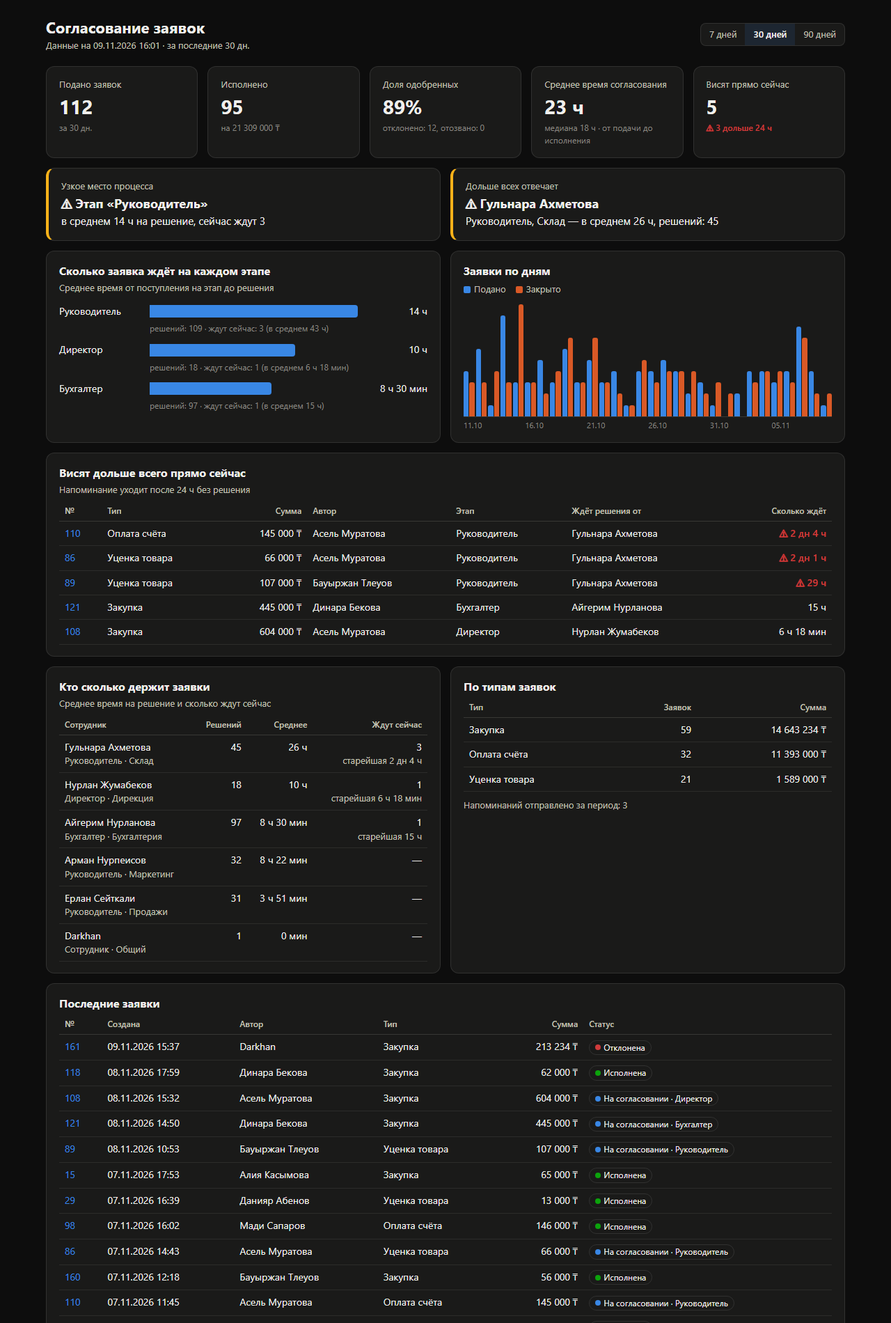
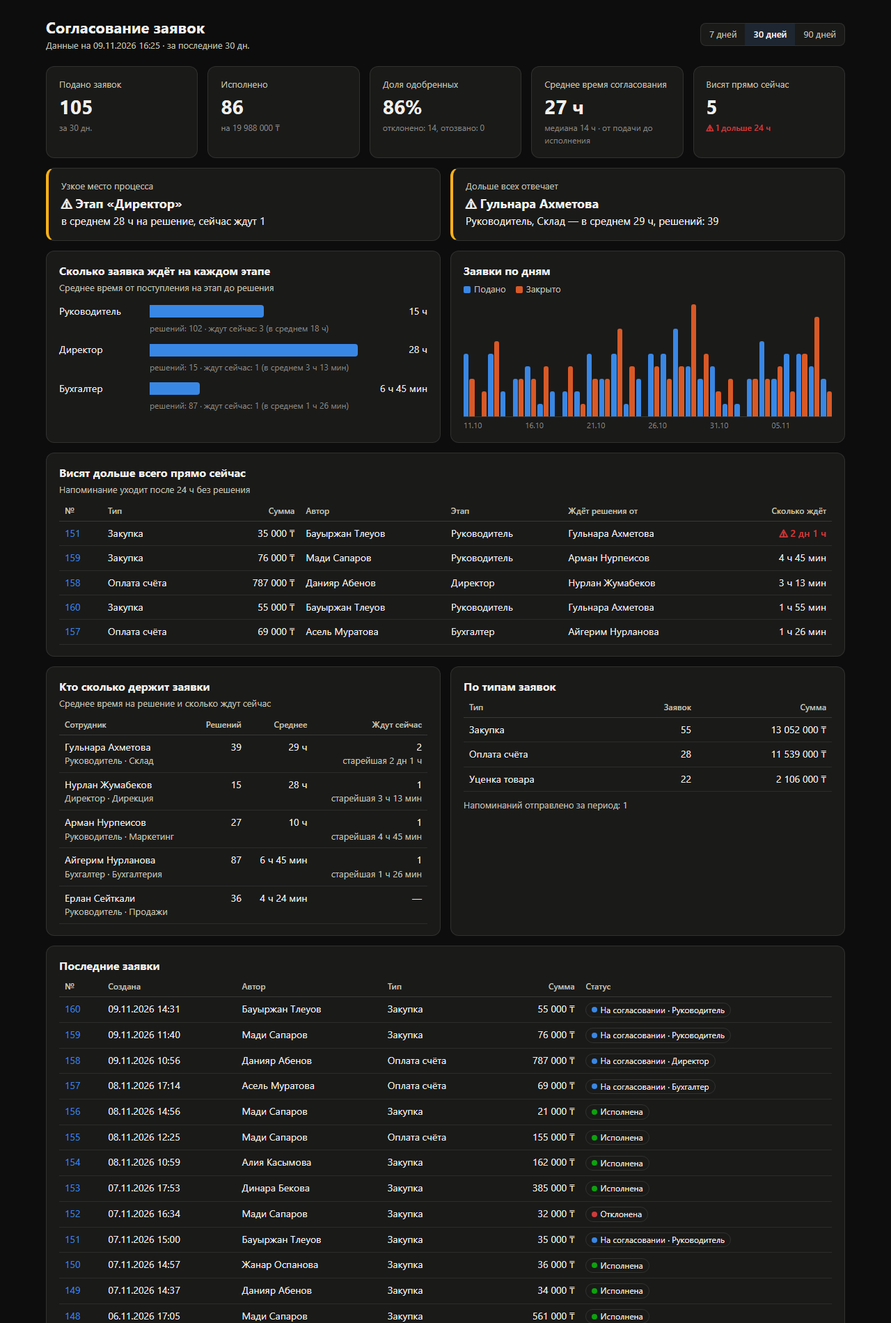
Add files via upload

diff --git a/app/services/approval.py b/app/services/approval.py
@@ -14,6 +14,9 @@
     любая заявка ──► АННУЛИРОВАНА (ушла из статистики, но осталась в истории)
     любая заявка ──► ВОЗВРАЩЕНА на выбранный этап (например, если одобрили по ошибке)
 Заявки не удаляются: история согласования — это аудит.
+
+Отказ по умолчанию: этап пропускается ТОЛЬКО по порогу суммы. Если ответственного нет
+(уволился, неактивен), заявка ждёт на этапе, а решение поручается администраторам.
 """
 from dataclasses import dataclass, field
 from datetime import datetime, timedelta
@@ -28,6 +31,7 @@ from app.workflow_config import APPROVE, Stage, WorkflowConfig
 MAX_AMOUNT = Decimal("10000000000")  # 10 млрд — защита от опечаток
 CURRENCY_MARKS = ("тенге", "тг", "₸", "руб.", "руб", "р.", "₽")
 MIN_REASON_LEN = 3
+UNASSIGNED_NOTE = "⚠ Не назначен ответственный — заявка передана администраторам"
 
 
 class WorkflowError(Exception):
@@ -225,11 +229,15 @@ class ApprovalService:
         return self.is_admin(user) or (self.open_access and req.author_id == user.id)
 
     def returnable_stages(self, req: Request) -> list[Stage]:
-        """Этапы, на которые можно вернуть заявку: нужные по сумме и не тот, на котором она сейчас."""
+        """Этапы, на которые можно вернуть заявку: нужные по сумме и не тот, на котором она сейчас.
+
+        Исключение — этап без ответственного: после того как ответственного назначили,
+        заявку «возвращают» на тот же этап, и она уходит уже ему.
+        """
         return [
             stage for i, stage in enumerate(self.wf.stages)
             if (stage.min_amount is None or req.amount >= stage.min_amount)
-            and not (req.is_open and req.stage_index == i)
+            and not (req.is_open and req.stage_index == i and not req.unassigned)
         ]
 
     async def _get_for_admin(self, session: AsyncSession, request_id: int, actor: User) -> Request:
@@ -338,20 +346,22 @@ class ApprovalService:
             users = await self._resolve(session, stage.assignee, req)
             if not users and stage.fallback:
                 users = await self._resolve(session, stage.fallback, req)
+            note = None
             if not users:
-                self._log(req, Action.SKIPPED, actor=None, now=now, stage_index=index,
-                          comment="Не найден ответственный")
-                continue
+                # Отказ по умолчанию: без ответственного этап НЕ пропускается.
+                # Заявка ждёт на этапе, а решать её временно поручается администраторам.
+                users = await self._admins(session, exclude=req.author)
+                note = UNASSIGNED_NOTE
 
             req.stage_index = index
             req.stage_code = stage.code
             req.stage_entered_at = now
             req.last_reminded_at = None
-            already = {a.user.id for a in req.assignments if a.stage_index == index}  # при возврате на этап
-            for user in users:
-                if user.id not in already:
-                    req.assignments.append(Assignment(stage_index=index, user=user))
-            self._log(req, Action.ENTERED, actor=None, now=now, stage_index=index)
+            # При повторном входе на этап (возврат) прежний состав ответственных заменяется новым
+            req.assignments = [a for a in req.assignments if a.stage_index != index]
+            for user in {u.id: u for u in users}.values():
+                req.assignments.append(Assignment(stage_index=index, user=user))
+            self._log(req, Action.ENTERED, actor=None, now=now, stage_index=index, comment=note)
             return users
 
         # Все этапы пройдены
@@ -378,6 +388,21 @@ class ApprovalService:
         else:
             return []
         result = await session.execute(query.order_by(User.id))
+        return list(result.scalars())
+
+    async def _admins(self, session: AsyncSession, exclude: User) -> list[User]:
+        """Активные администраторы (по роли или из настроек), кроме указанного человека."""
+        conditions = [User.role == Role.ADMIN]
+        ids = [int(a) for a in self.admins if a.isdigit()]
+        names = [a for a in self.admins if not a.isdigit()]
+        if ids:
+            conditions.append(User.tg_id.in_(ids))
+        if names:
+            conditions.append(User.username.in_(names))
+        result = await session.execute(
+            select(User).where(User.is_active.is_(True), User.id != exclude.id, or_(*conditions))
+            .order_by(User.id)
+        )
         return list(result.scalars())
 
     def _log(

diff --git a/tests/test_unassigned.py b/tests/test_unassigned.py
@@ -1,0 +1,74 @@
+"""Отказ по умолчанию: этап без ответственного не пропускается."""
+from decimal import Decimal
+
+from app.models import Action, Status
+from app.services.approval import UNASSIGNED_NOTE
+
+
+async def create(service, session, author, amount):
+    out = await service.create(session, author, "payment", Decimal(amount), "Оплата поставщику")
+    return out
+
+
+async def test_no_accountant_request_does_not_become_done(service, session, staff):
+    """Бухгалтер уволился: после одобрения руководителя заявка НЕ становится «Исполнена»."""
+    staff["accountant"].is_active = False
+    await session.flush()
+    req = (await create(service, session, staff["employee"], "15000")).request
+
+    out = await service.approve(session, req.id, req.stage_index, staff["manager"])
+    assert req.status == Status.IN_PROGRESS
+    assert req.stage_code == "accountant"
+    assert req.unassigned
+    assert [u.username for u in out.new_assignees] == ["adm"]  # решение временно у администратора
+    assert any(e.action == Action.ENTERED and e.comment == UNASSIGNED_NOTE for e in req.events)
+    assert not any(e.action == Action.SKIPPED and e.stage_code == "accountant" for e in req.events)
+
+
+async def test_no_manager_and_no_director_large_amount_waits(service, session, staff):
+    """Нет руководителя отдела, директор неактивен: 900 000 ₸ НЕ уходит сразу бухгалтеру."""
+    staff["manager"].is_active = False
+    staff["director"].is_active = False
+    await session.flush()
+    out = await create(service, session, staff["employee"], "900000")
+    req = out.request
+    assert req.status == Status.IN_PROGRESS
+    assert req.stage_code == "manager"
+    assert req.unassigned
+    assert [u.username for u in out.new_assignees] == ["adm"]
+    assert all(a.user.username != "acc" for a in req.assignments)
+
+
+async def test_stays_on_stage_even_without_admins(service, session, staff):
+    """Даже если и администраторов нет — заявка ждёт, а не проходит дальше."""
+    staff["accountant"].is_active = False
+    staff["admin"].is_active = False
+    await session.flush()
+    req = (await create(service, session, staff["employee"], "15000")).request
+    out = await service.approve(session, req.id, req.stage_index, staff["manager"])
+    assert req.status == Status.IN_PROGRESS and req.stage_code == "accountant"
+    assert out.new_assignees == [] and req.current_assignees() == []
+
+
+async def test_threshold_skip_still_works(service, session, staff):
+    """Пропуск по порогу суммы — единственный законный пропуск этапа."""
+    req = (await create(service, session, staff["employee"], "15000")).request
+    await service.approve(session, req.id, req.stage_index, staff["manager"])
+    assert req.stage_code == "accountant" and not req.unassigned
+    assert any(e.action == Action.SKIPPED and e.stage_code == "director" for e in req.events)
+
+
+async def test_admin_reassigns_after_hiring(service, session, staff):
+    """Наняли бухгалтера → администратор «возвращает» заявку на тот же этап, и она уходит бухгалтеру."""
+    staff["accountant"].is_active = False
+    await session.flush()
+    req = (await create(service, session, staff["employee"], "15000")).request
+    await service.approve(session, req.id, req.stage_index, staff["manager"])
+    assert "accountant" in [s.code for s in service.returnable_stages(req)]
+
+    staff["accountant"].is_active = True
+    await session.flush()
+    out = await service.return_to_stage(session, req.id, "accountant", staff["admin"], "Бухгалтер назначен")
+    assert [u.username for u in out.new_assignees] == ["acc"]
+    assert [u.username for u in req.current_assignees()] == ["acc"]  # администратор больше не в списке
+    assert not req.unassigned

diff --git a/app/bot/notifier.py b/app/bot/notifier.py
@@ -16,6 +16,12 @@ from app.workflow_config import WorkflowConfig
 
 log = logging.getLogger(__name__)
 
+CAPTION_LIMIT = 1024  # предел подписи к фото/файлу в Telegram
+
+
+def short(text: str, limit: int) -> str:
+    return text if len(text) <= limit else text[: limit - 1] + "…"
+
 
 class Notifier:
     def __init__(self, bot: Bot, wf: WorkflowConfig, tz: ZoneInfo, sync: SheetSync | None, open_access: bool):
@@ -55,11 +61,19 @@ class Notifier:
 
         # Следующим ответственным — карточку с кнопками
         header = ""
-        if outcome.action == Action.RETURNED:
-            reason = escape(last_comment(req, Action.RETURNED))
+        if req.unassigned:
+            stage = escape(self.wf.stage_title(req.stage_code))
+            header = (f"⚠ <b>Не назначен ответственный за этап «{stage}»</b>\n"
+                      "Заявка передана вам как администратору. Назначьте ответственного в списке сотрудников "
+                      "и верните заявку на этот этап (/r " + str(req.id) + ") — или примите решение сами.\n\n")
+        elif outcome.action == Action.RETURNED:
+            reason = escape(short(last_comment(req, Action.RETURNED), 200))
             header = f"↩ <b>Заявка возвращена вам на повторное решение</b>\nПричина: <i>{reason}</i>\n\n"
         for user in outcome.new_assignees:
             await self.send_card(user, req, header=header)
+        if req.unassigned and not outcome.new_assignees:
+            log.warning("Заявка №%s ждёт на этапе «%s»: нет ни ответственного, ни администраторов",
+                        req.id, req.stage_code)
 
     async def send_card(self, user: User, req: Request, header: str = "") -> None:
         if not user.tg_id:
@@ -72,10 +86,14 @@ class Notifier:
         text = header + request_card(req, self.wf, self.tz, short_description=bool(req.attachment_file_id))
         kb = decision_kb(req, self.wf)
         try:
-            if req.attachment_kind == "photo":
-                await self.bot.send_photo(user.tg_id, req.attachment_file_id, caption=text, reply_markup=kb)
-            elif req.attachment_kind == "document":
-                await self.bot.send_document(user.tg_id, req.attachment_file_id, caption=text, reply_markup=kb)
+            if req.attachment_kind in ("photo", "document"):
+                send = self.bot.send_photo if req.attachment_kind == "photo" else self.bot.send_document
+                if len(text) <= CAPTION_LIMIT:
+                    await send(user.tg_id, req.attachment_file_id, caption=text, reply_markup=kb)
+                else:
+                    # Подпись к вложению в Telegram — до 1024 символов: вложение отдельно, карточка текстом
+                    await send(user.tg_id, req.attachment_file_id, caption=f"Вложение к заявке №{req.id}")
+                    await self.bot.send_message(user.tg_id, text, reply_markup=kb)
             else:
                 await self.bot.send_message(user.tg_id, text, reply_markup=kb)
         except TelegramAPIError as e:

diff --git a/app/bot/setup.py b/app/bot/setup.py
@@ -25,6 +25,21 @@ COMMANDS = [
 ]
 
 
+# Профиль бота: «О боте» и текст на экране до нажатия «Запустить»
+SHORT_DESCRIPTION = (
+    "Согласование заявок на закупку и оплату: руководитель → директор → бухгалтер. Журнал в Google Таблице."
+)
+DESCRIPTION = (
+    "Бот для согласования заявок внутри компании.\n\n"
+    "• Подайте заявку: тип, сумма, описание, фото или файл\n"
+    "• Она пройдёт маршрут: руководитель → директор (от 500 000 ₸) → бухгалтер\n"
+    "• Отказ — только с причиной, зависшие заявки — с напоминаниями\n"
+    "• Ошибки исправляет администратор, история не удаляется\n"
+    "• Всё пишется в Google Таблицу, аналитика — на дашборде\n\n"
+    "Нажмите «Запустить» и подайте заявку."
+)
+
+
 def create_bot(token: str) -> Bot:
     return Bot(token, default=DefaultBotProperties(parse_mode=ParseMode.HTML))
 
@@ -46,6 +61,8 @@ def create_dispatcher(
 
     async def on_startup():
         await bot.set_my_commands(COMMANDS)
+        await bot.set_my_short_description(SHORT_DESCRIPTION)
+        await bot.set_my_description(DESCRIPTION)
 
     dp.startup.register(on_startup)
     return dp, notifier

diff --git a/scripts/seed.py b/scripts/seed.py
@@ -94,17 +94,21 @@ async def seed(reset: bool, count: int) -> None:
         employees = [u for u in users.values() if u.role == Role.EMPLOYEE]
 
         now = utcnow()
-        created = 0
+        # Время подачи: последние 45 дней, рабочие часы 9:00–18:00 по Алматы (UTC+5).
+        # Сортируем заранее, чтобы номера заявок шли по порядку дат, как в жизни.
+        moments = []
         for _ in range(count):
+            t = now - timedelta(days=random.uniform(0, 45))
+            t = t.replace(hour=random.randint(4, 12), minute=random.randint(0, 59))
+            moments.append(t - timedelta(days=1) if t > now else t)
+        moments.sort()
+
+        created = 0
+        for t in moments:
             author = random.choice(employees)
             type_code = random.choices(["purchase", "payment", "markdown"], weights=[5, 3, 2])[0]
             text, lo, hi = random.choice(DESCRIPTIONS[type_code])
             amount = Decimal(random.randrange(lo, hi, 1000))
-            # Время подачи: последние 45 дней, рабочие часы 9:00–18:00 по Алматы (UTC+5)
-            t = now - timedelta(days=random.uniform(0, 45))
-            t = t.replace(hour=random.randint(4, 12), minute=random.randint(0, 59))
-            if t > now:
-                t -= timedelta(days=1)
 
             outcome = await service.create(session, author, type_code, amount, text, now=t)
             req = outcome.request

diff --git a/app/bot/handlers/decisions.py b/app/bot/handlers/decisions.py
@@ -22,13 +22,13 @@ class RejectFlow(StatesGroup):
 async def mark_message(bot: Bot, chat_id: int, message_id: int, note: str, original: Message | None = None):
     """Убирает кнопки у карточки заявки и дописывает итог."""
     try:
-        if original is not None and (original.text or original.caption):
-            body = (original.html_text or "") + f"\n\n<b>{note}</b>"
-            if original.text:
-                await original.edit_text(body, reply_markup=None)
-            else:
-                await original.edit_caption(caption=body[:1024], reply_markup=None)
+        body = (original.html_text or "") + f"\n\n<b>{note}</b>" if original is not None else ""
+        if original is not None and original.text:
+            await original.edit_text(body, reply_markup=None)
+        elif original is not None and original.caption and len(body) <= 1024:
+            await original.edit_caption(caption=body, reply_markup=None)
         else:
+            # Подпись к фото не влезает (или карточки нет под рукой) — просто убираем кнопки
             await bot.edit_message_reply_markup(chat_id=chat_id, message_id=message_id, reply_markup=None)
     except TelegramAPIError:
         pass  # сообщение могли удалить — не страшно

diff --git a/app/models.py b/app/models.py
@@ -158,6 +158,15 @@ class Request(Base):
             return next((e.comment for e in reversed(self.events) if e.action == Action.ANNULLED), None)
         return None
 
+    @property
+    def unassigned(self) -> bool:
+        """На текущем этапе не нашлось ответственного — решают администраторы (или пока никто)."""
+        if not self.is_open:
+            return False
+        entered = next((e for e in reversed(self.events)
+                        if e.action == Action.ENTERED and e.stage_index == self.stage_index), None)
+        return bool(entered and entered.comment and entered.comment.startswith("⚠"))
+
     def current_assignees(self) -> list[User]:
         if not self.is_open:
             return []

diff --git a/app/services/stats.py b/app/services/stats.py
@@ -150,7 +150,9 @@ async def compute_stats(session: AsyncSession, wf: WorkflowConfig, tz: ZoneInfo,
         s.stuck.append(StuckItem(
             id=r.id, type_title=wf.type_title(r.type_code), amount=r.amount,
             author=r.author.full_name, stage_title=wf.stage_title(r.stage_code),
-            assignees=", ".join(u.full_name for u in assignees), wait_h=wait, overdue=overdue,
+            assignees=(("⚠ не назначен" + (" → " if assignees else "")) if r.unassigned else "")
+            + ", ".join(u.full_name for u in assignees),
+            wait_h=wait, overdue=overdue,
         ))
     s.stuck.sort(key=lambda x: x.wait_h, reverse=True)
     s.stuck = s.stuck[:10]

diff --git a/README.md b/README.md
@@ -5,7 +5,7 @@
 ![FastAPI](https://img.shields.io/badge/FastAPI-dashboard-009688?logo=fastapi&logoColor=white)
 ![Google Sheets API](https://img.shields.io/badge/Google%20Sheets-API-34A853?logo=googlesheets&logoColor=white)
 ![Docker](https://img.shields.io/badge/Docker-deploy-2496ED?logo=docker&logoColor=white)
-![Tests](https://img.shields.io/badge/tests-33%20passed-success)
+![Tests](https://img.shields.io/badge/tests-38%20passed-success)
 
 ## Попробовать
 
@@ -51,6 +51,7 @@ Telegram ◄──► aiogram (бот) ─┐
 
 - **База данных — источник правды.** Google Таблица — витрина для людей. Если таблицу случайно испортить, данные не пострадают: журнал раз в 30 минут перезаписывается из базы.
 - **Синхронизация переживает сбои.** Изменения помечаются флагом и дописываются в таблицу, как только Google снова доступен.
+- **Отказ по умолчанию.** Этап пропускается только по порогу суммы. Если ответственного нет (уволился, неактивен), заявка не «проскакивает» дальше, а ждёт на этапе, и решение поручается администраторам.
 - **Защита от двойных нажатий.** У каждой заявки есть версия, поэтому два одновременных решения не перезапишут друг друга.
 - **Бизнес-логика отделена от Telegram.** `app/services/approval.py` можно покрыть тестами или подключить к другому интерфейсу.
 
@@ -141,7 +142,7 @@ Caddy сам получит HTTPS-сертификат, контейнер `duck
 pytest
 ```
 
-Тесты проверяют маршрут, пороги сумм, обязательную причину отказа, защиту от двойного нажатия, права доступа, напоминания, аннулирование и возврат на этап, метрики и синхронизацию списка сотрудников.
+Тесты проверяют маршрут, пороги сумм, обязательную причину отказа, защиту от двойного нажатия, права доступа, напоминания, аннулирование и возврат на этап, поведение при отсутствии ответственного, метрики и синхронизацию списка сотрудников.
 
 ## Стек
 
